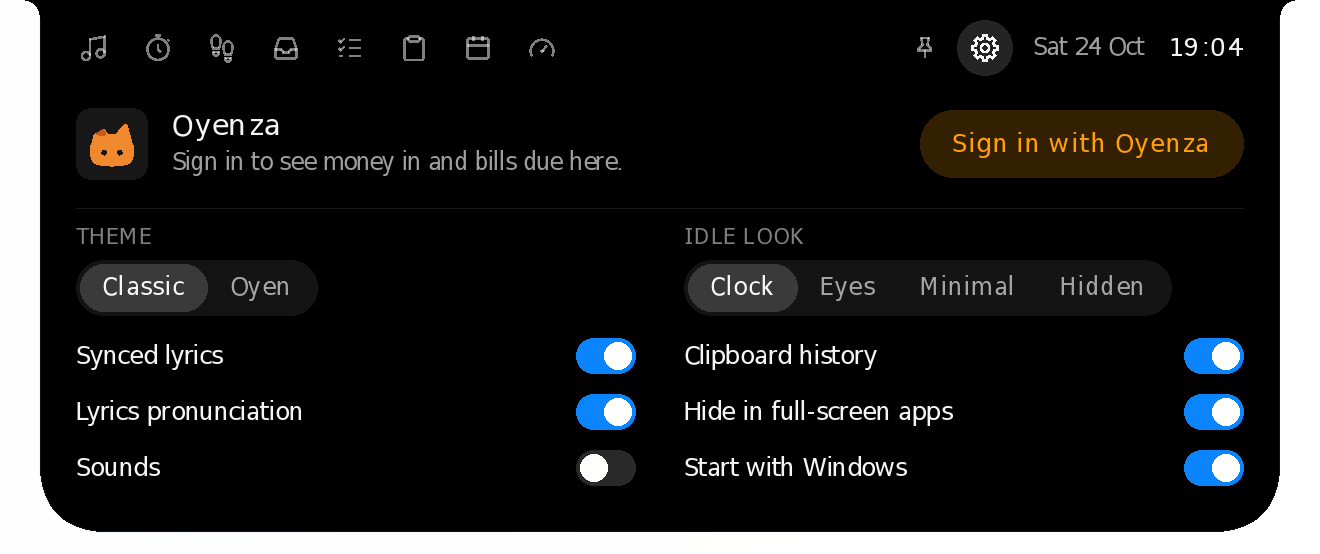
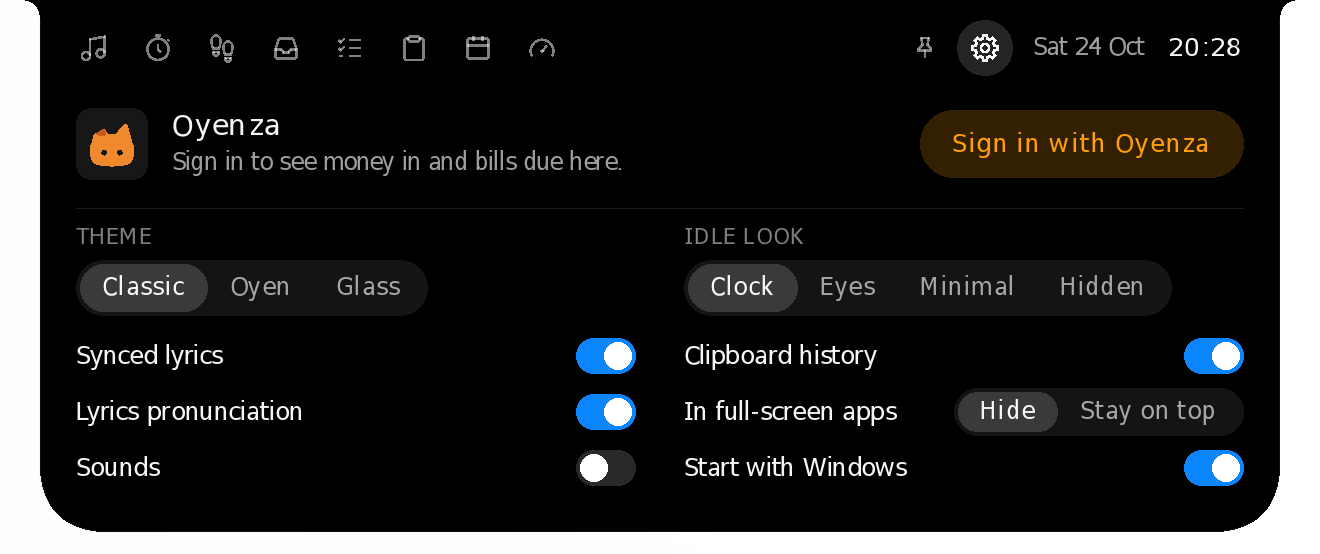
Website: 0.1.13 (Glass, stays on top, Oyen's music notes)
- The page names 0.1.13. The download size fallback stays 5.2 MB (the
  0.1.13 build's installer is 5,207,071 bytes).
- Glass, a new section (Optional theme, new in 0.1.13): what the glass
  does, what it copies from the screen and why (the same words as
  PRIVACY.md and the README), the smoked-glass fallback, and how to turn
  it on. Its pictures are the Glass self-test at 200 % on Windows CI (the
  GPU path; Wine only draws the fallback), over the self-test's own light
  and dark pages, kept whole because the glass is made of the page.
- Stays on top, a new block: the island goes back on top when another
  window covers it, and In full-screen apps > Hide or Stay on top (right-
  click menu or Settings), with the Settings page set to Stay on top.
- Settings: copy and alt text for the In full-screen apps choice; the
  page-settings shots are re-cut (Theme now offers Glass).
- Oyen theme: the media pill shot now has music notes in the air (a frame
  of the self-test's media loop recording), and the Music caption says
  they're new in 0.1.13.
- Nav: a Glass link.
- tools/site_shots.py: a glass mode (glass/<run>-<state>.webp, whole
  pictures), a loop-frame mode for the Oyen media pill, and
  page-settings-stay-on-top in KEEP.

Other shots re-taken from the 0.1.13 build differ only in the clock, so
they stay.

Changed region(s): [[0.497, 0.7058, 0.9629, 0.7978], [0.8697, 0.0614, 0.9629, 0.1227], [0.2485, 0.491, 0.3106, 0.5523]]

diff --git a/site/index.html b/site/index.html
@@ -178,6 +178,16 @@ section { padding-block: 88px; }
 .theme-notes ul { margin: 0; padding: 0; list-style: none; display: grid; gap: 12px; }
 .theme-notes li { display: grid; grid-template-columns: 22px minmax(0, 1fr); gap: 10px; font-size: 16px; }
 .theme-notes li::before { content: ""; width: 10px; height: 10px; border-radius: 50%; background: var(--orange); margin-top: 8px; }
+/* the Glass theme: its pictures are whole screen corners, page and island together */
+.glass { background: linear-gradient(180deg, var(--bg), #eef1f6 22%, #eef1f6 78%, var(--bg)); }
+.glass-shots { display: grid; grid-template-columns: repeat(2, minmax(0, 1fr)); gap: 16px; }
+.glass-shot { margin: 0; border-radius: 18px; overflow: hidden; background: var(--bg); border: 1px solid #dfe3ea; }
+.glass-shot img { width: 100%; }
+.glass-shot figcaption { padding: 14px 16px 16px; display: grid; gap: 2px; }
+.glass-shot strong { font: 600 16px/1.3 var(--display); }
+.glass-shot span { font-size: 14px; color: var(--muted); }
+.glass-flip { display: grid; grid-template-columns: repeat(2, minmax(0, 1fr)); gap: 12px; }
+.glass-flip figcaption { padding: 10px 12px 12px; }
 .how { margin-top: 18px; font-size: 15px; color: var(--muted); }
 .how kbd { font: 600 13px/1 var(--sans); background: var(--bg); border: 1px solid var(--line); border-bottom-width: 2px; border-radius: 6px; padding: 3px 7px; color: var(--ink); }
 
@@ -214,7 +224,7 @@ footer a { color: var(--muted); }
 
 @media (max-width: 900px) {
   .hero-copy, .music, .music.flip, .theme-notes, .oyenza, .install { grid-template-columns: minmax(0, 1fr); }
-  .compare, .facts { grid-template-columns: minmax(0, 1fr); }
+  .compare, .facts, .glass-shots { grid-template-columns: minmax(0, 1fr); }
   .hero-oyen { max-width: 320px; }
   .oyenza { padding: 32px 24px; }
 }
@@ -237,6 +247,7 @@ footer a { color: var(--muted); }
     <nav aria-label="Sections">
       <a href="#features">Features</a>
       <a href="#oyen">Oyen theme</a>
+      <a href="#glass">Glass</a>
       <a href="#oyenza">Oyenza</a>
       <a href="#install">Install</a>
       <a href="https://github.com/lucacadalora/poni">GitHub</a>
@@ -252,7 +263,7 @@ footer a { color: var(--muted); }
         <button type="button" id="heroToggle" aria-expanded="true" aria-label="Close the island">
           <div class="state closed">
             <img class="look-classic" src="assets/shots/classic/media-activity.webp" alt="The island while music plays: album art and a little equalizer" width="135" height="32">
-            <img class="look-oyen" src="assets/shots/oyen/media-activity.webp" alt="The cream island of the Oyen theme: album art, and Oyen bobbing to the music" width="135" height="32">
+            <img class="look-oyen" src="assets/shots/oyen/media-activity.webp" alt="The cream island of the Oyen theme: album art, and Oyen swaying as music notes float up" width="135" height="32">
           </div>
           <div class="state open">
             <img class="look-classic" src="assets/shots/classic/page-media.webp" alt="The open island: the Music page with synced lyrics" width="660" height="227">
@@ -274,7 +285,7 @@ footer a { color: var(--muted); }
           </a>
           <a class="btn btn-line" href="https://github.com/lucacadalora/poni">Source on GitHub</a>
         </div>
-        <p class="small">Free and open source (MIT) · <span data-release="size">5.2 MB</span> download · No account needed · <a data-release="notes" href="https://github.com/lucacadalora/poni/releases/latest">What's new in <span data-release="version">0.1.12</span></a></p>
+        <p class="small">Free and open source (MIT) · <span data-release="size">5.2 MB</span> download · No account needed · <a data-release="notes" href="https://github.com/lucacadalora/poni/releases/latest">What's new in <span data-release="version">0.1.13</span></a></p>
         <div class="look-switch" role="group" aria-label="Island look">
           <button type="button" data-look="classic" aria-pressed="true"><span class="dot"></span>Classic</button>
           <button type="button" data-look="oyen" aria-pressed="false"><span class="dot dot-oyen"></span>Oyen theme</button>
@@ -295,7 +306,7 @@ footer a { color: var(--muted); }
         <figure class="strip" style="margin:0">
           <div class="sky"><div class="island">
             <img class="look-classic" src="assets/shots/classic/media-activity.webp" alt="Album art and an equalizer" width="135" height="32" loading="lazy">
-            <img class="look-oyen" src="assets/shots/oyen/media-activity.webp" alt="Album art and Oyen bobbing to the music" width="135" height="32" loading="lazy">
+            <img class="look-oyen" src="assets/shots/oyen/media-activity.webp" alt="Album art, and Oyen swaying as music notes float up" width="135" height="32" loading="lazy">
           </div></div>
           <figcaption><strong>Music playing</strong><span>Album art and a beat. The title peeks in when the song changes.</span></figcaption>
         </figure>
@@ -430,13 +441,13 @@ footer a { color: var(--muted); }
       </div>
       <div class="music" id="settings">
         <div class="sky"><div class="island">
-          <img class="look-classic" src="assets/shots/classic/page-settings.webp" alt="The Settings page: Sign in with Oyenza at the top, then the theme, the idle look and six switches" width="660" height="277" loading="lazy">
+          <img class="look-classic" src="assets/shots/classic/page-settings.webp" alt="The Settings page: Sign in with Oyenza at the top, then the theme, the idle look, five switches and a Hide or Stay on top choice for full-screen apps" width="660" height="277" loading="lazy">
           <img class="look-oyen" src="assets/shots/oyen/page-settings.webp" alt="The Settings page in the Oyen theme" width="660" height="277" loading="lazy">
         </div></div>
         <div>
           <p class="eyebrow">New in 0.1.10</p>
           <h3>Settings, right in the island</h3>
-          <p>Press the gear beside the pin. Your Oyenza account comes first: sign in, see who is signed in, or disconnect. Below it are the theme, the idle look, and switches for lyrics, pronunciation, sounds, clipboard history, full-screen apps and starting with Windows. Changes apply at once.</p>
+          <p>Press the gear beside the pin. Your Oyenza account comes first: sign in, see who is signed in, or disconnect. Below it are the theme, the idle look, switches for lyrics, pronunciation, sounds, clipboard history and starting with Windows, and what the island does in full-screen apps. Changes apply at once.</p>
         </div>
       </div>
       <div class="music flip" id="system">
@@ -449,6 +460,18 @@ footer a { color: var(--muted); }
           <img class="look-classic" src="assets/shots/classic/page-system.webp" alt="The System page: CPU, memory, drives, network and battery, each with a one-minute chart" width="660" height="251" loading="lazy">
           <img class="look-oyen" src="assets/shots/oyen/page-system.webp" alt="The System page in the Oyen theme" width="660" height="251" loading="lazy">
         </div></div>
+      </div>
+      <div class="music" id="on-top">
+        <div class="sky"><div class="island">
+          <img class="look-classic" src="assets/shots/classic/page-settings-stay-on-top.webp" alt="The Settings page with In full-screen apps set to Stay on top" width="660" height="277" loading="lazy">
+          <img class="look-oyen" src="assets/shots/oyen/page-settings-stay-on-top.webp" alt="In full-screen apps set to Stay on top, in the Oyen theme" width="660" height="277" loading="lazy">
+        </div></div>
+        <div>
+          <p class="eyebrow">New in 0.1.13</p>
+          <h3>Stays on top</h3>
+          <p>When another window covers the island, such as a browser left on top after full screen or an app set to stay on top, the island goes back on top.</p>
+          <p>In full-screen games and videos you choose: hide the island, or keep it on top. Right-click the island or open Settings, then <b>In full-screen apps</b> › <b>Hide</b> or <b>Stay on top</b>. Hide is the default. A game in exclusive full-screen mode still covers every window.</p>
+        </div>
       </div>
     </div>
   </section>
@@ -473,8 +496,8 @@ footer a { color: var(--muted); }
         </figure>
         <figure class="pair" style="margin:0">
           <div class="sky"><div class="island"><img src="assets/shots/classic/media-activity.webp" alt="Classic: album art and an equalizer" width="135" height="32" loading="lazy"></div><span class="tag">Classic</span></div>
-          <div class="sky"><div class="island"><img src="assets/shots/oyen/media-activity.webp" alt="Oyen theme: a cream island, Oyen bobbing to the music" width="135" height="32" loading="lazy"></div><span class="tag">Oyen</span></div>
-          <figcaption><strong>Music</strong><span>Oyen bobs along while a song plays.</span></figcaption>
+          <div class="sky"><div class="island"><img src="assets/shots/oyen/media-activity.webp" alt="Oyen theme: a cream island, Oyen swaying as music notes float up" width="135" height="32" loading="lazy"></div><span class="tag">Oyen</span></div>
+          <figcaption><strong>Music</strong><span>New in 0.1.13: music notes float up beside Oyen on every beat, and he sways along.</span></figcaption>
         </figure>
       </div>
       <figure class="theme-page">
@@ -490,6 +513,47 @@ footer a { color: var(--muted); }
         <div>
           <img src="brand/art/oyen-poni-asleep.webp" alt="Oyen asleep on the island while a song plays" width="900" height="654" loading="lazy" style="width:min(340px,100%)">
           <p class="how">Open the island and press the gear, then <kbd>Theme</kbd> › <kbd>Oyen</kbd>. Switch back to <kbd>Classic</kbd> any time.</p>
+        </div>
+      </div>
+    </div>
+  </section>
+
+  <section class="glass" id="glass">
+    <div class="wrap">
+      <div class="head">
+        <p class="eyebrow">Optional theme · New in 0.1.13</p>
+        <h2>Glass: the island as liquid glass</h2>
+        <p>Its edge bends and magnifies what's under it, the middle is frosted, a light runs along the rim, and it turns light or dark with what's behind it.</p>
+      </div>
+      <div class="glass-shots">
+        <figure class="glass-shot">
+          <img src="assets/shots/glass/light-page-media.webp" alt="The Music page in the Glass theme over a bright web page, in light mode: frosted glass, with the page bending at the rim" width="756" height="267" loading="lazy">
+          <figcaption><strong>Light mode</strong><span>Clear, frosted glass over a bright page. Look at the rim: the page bends there.</span></figcaption>
+        </figure>
+        <figure class="glass-shot">
+          <img src="assets/shots/glass/dark-page-media.webp" alt="The Music page in the Glass theme over a dark video page, in dark mode" width="756" height="267" loading="lazy">
+          <figcaption><strong>Dark mode</strong><span>The open island follows Windows' light or dark mode.</span></figcaption>
+        </figure>
+      </div>
+      <div class="theme-notes">
+        <ul>
+          <li><span>To draw the glass, Oyen Poni copies the part of the screen behind its window (the island and the space it opens into) while Glass is on, and not while the island is hidden or the PC is locked. The copy stays in your PC's memory, each new copy replaces the last, and it's never saved or sent.</span></li>
+          <li><span>While Glass is on, Windows leaves the island out of screenshots, recordings and screen sharing.</span></li>
+          <li><span>Where it can't copy the screen (Remote Desktop, Windows 10 before version 2004, HDR displays, some laptops), Glass draws smoked glass instead: the same shape and light over a solid tint, and it stays in screenshots.</span></li>
+          <li><span>Classic stays the default look.</span></li>
+        </ul>
+        <div>
+          <div class="glass-flip">
+            <figure class="glass-shot">
+              <img src="assets/shots/glass/light-media-activity.webp" alt="The resting island in the Glass theme over a bright page: light glass" width="256" height="83" loading="lazy">
+              <figcaption><span>Over a bright page</span></figcaption>
+            </figure>
+            <figure class="glass-shot">
+              <img src="assets/shots/glass/flip-media-activity.webp" alt="The resting island in the Glass theme over a dark page with Windows in light mode: it turns dark" width="256" height="83" loading="lazy">
+              <figcaption><span>Over a dark page, same light mode</span></figcaption>
+            </figure>
+          </div>
+          <p class="how">The small island turns light or dark with what's behind it. Open the island and press the gear, then <kbd>Theme</kbd> › <kbd>Glass</kbd>.</p>
         </div>
       </div>
     </div>

diff --git a/tools/site_shots.py b/tools/site_shots.py
@@ -18,6 +18,26 @@ a third argument and only that page is cut, as page-media-ko.webp:
 Shoot both themes in the same minute (run them side by side) so the island's
 clock matches when the site switches looks.
 
+In the Oyen theme, music notes float up beside Oyen on the beat, and the
+scene's single frame may fall between notes. Record the media pill frame by
+frame (PONI_SELFTEST_LOOP=1 writes loop-media-NNN.png), pick a frame with
+notes in the air and give its name as the third argument; it becomes
+media-activity.webp:
+
+    PONI_SELFTEST_DPI=192 PONI_SELFTEST_THEME=oyen PONI_SELFTEST_LOOP=1 tools/run-selftest-wine.sh target/.../poni.exe out-oyen-loop
+    python3 tools/site_shots.py out-oyen-loop oyen loop-media-006
+
+The Glass pictures come from Windows: Wine has no DirectComposition, so under
+Wine Glass only draws its smoked-glass fallback. Run the Glass self-test at
+200 % on Windows (PONI_SELFTEST_THEME=glass, PONI_SELFTEST_DPI=192 and
+PONI_SELFTEST_GLASS=light, dark or flip, which picks the page under the
+island). Its pictures show the island over that page, which is what the
+glass is made of, so they are kept whole, as glass/<run>-<state>.webp:
+
+    python3 tools/site_shots.py selftest-glass-light glass light
+    python3 tools/site_shots.py selftest-glass-dark glass dark
+    python3 tools/site_shots.py selftest-glass-flip glass flip
+
 The self-test writes NAME.png (the island's canvas on a test gradient, with
 margins) and NAME-alpha.png (the canvas's own alpha). This cuts the canvas out,
 takes its alpha from NAME-alpha.png and removes the gradient from the
@@ -36,7 +56,12 @@ KEEP = {
     "idle-clock", "idle-eyes", "media-activity", "timer-activity", "volume-hud", "bluetooth-hud",
     "page-media", "page-focus", "page-health", "page-shelf", "page-tasks", "page-clipboard", "page-today",
     "page-shelf-phone-ask", "oyenza-money", "page-oyenza", "page-oyenza-signin", "page-settings", "page-system",
+    "page-settings-stay-on-top",
 }
+# Glass pictures keep the page under the island: the glass is made of it.
+# By run: the open island in light and dark mode, and the resting island
+# over a bright page and over a dark one with Windows still in light mode.
+GLASS_KEEP = {"light": {"page-media", "media-activity"}, "dark": {"page-media"}, "flip": {"media-activity"}}
 
 
 def cut(shot: Path, alpha: Path) -> Image.Image:
@@ -59,7 +84,22 @@ def cut(shot: Path, alpha: Path) -> Image.Image:
     return img.crop(box) if box else img
 
 
+def glass(src: Path, run: str) -> None:
+    dst = ROOT / "site" / "assets" / "shots" / "glass"
+    dst.mkdir(parents=True, exist_ok=True)
+    for shot in sorted(src.glob("[0-9][0-9]-*.png")):
+        name = re.sub(r"^\d\d-", "", shot.stem)
+        if name not in GLASS_KEEP[run]:
+            continue
+        img = Image.open(shot).convert("RGB")
+        img.save(dst / f"{run}-{name}.webp", quality=90, method=6)
+        print(f"glass/{run}-{name}.webp  {img.width}x{img.height}")
+
+
 def main() -> None:
+    if len(sys.argv) == 4 and sys.argv[2] == "glass" and sys.argv[3] in ("light", "dark", "flip"):
+        glass(Path(sys.argv[1]), sys.argv[3])
+        return
     if len(sys.argv) not in (3, 4) or sys.argv[2] not in ("classic", "oyen"):
         sys.exit(__doc__)
     src, theme = Path(sys.argv[1]), sys.argv[2]
@@ -67,6 +107,11 @@ def main() -> None:
     keep = {"page-media"} if lang else KEEP
     dst = ROOT / "site" / "assets" / "shots" / theme
     dst.mkdir(parents=True, exist_ok=True)
+    if lang and lang.startswith("loop-media-"):
+        img = cut(src / f"{lang}.png", src / f"{lang}-alpha.png")
+        img.save(dst / "media-activity.webp", lossless=True, method=6)
+        print(f"{theme}/media-activity.webp  {img.width}x{img.height}  (from {lang})")
+        return
     for shot in sorted(src.glob("[0-9][0-9]-*.png")):
         name = re.sub(r"^\d\d-", "", shot.stem)
         alpha = shot.with_name(shot.stem + "-alpha.png")
